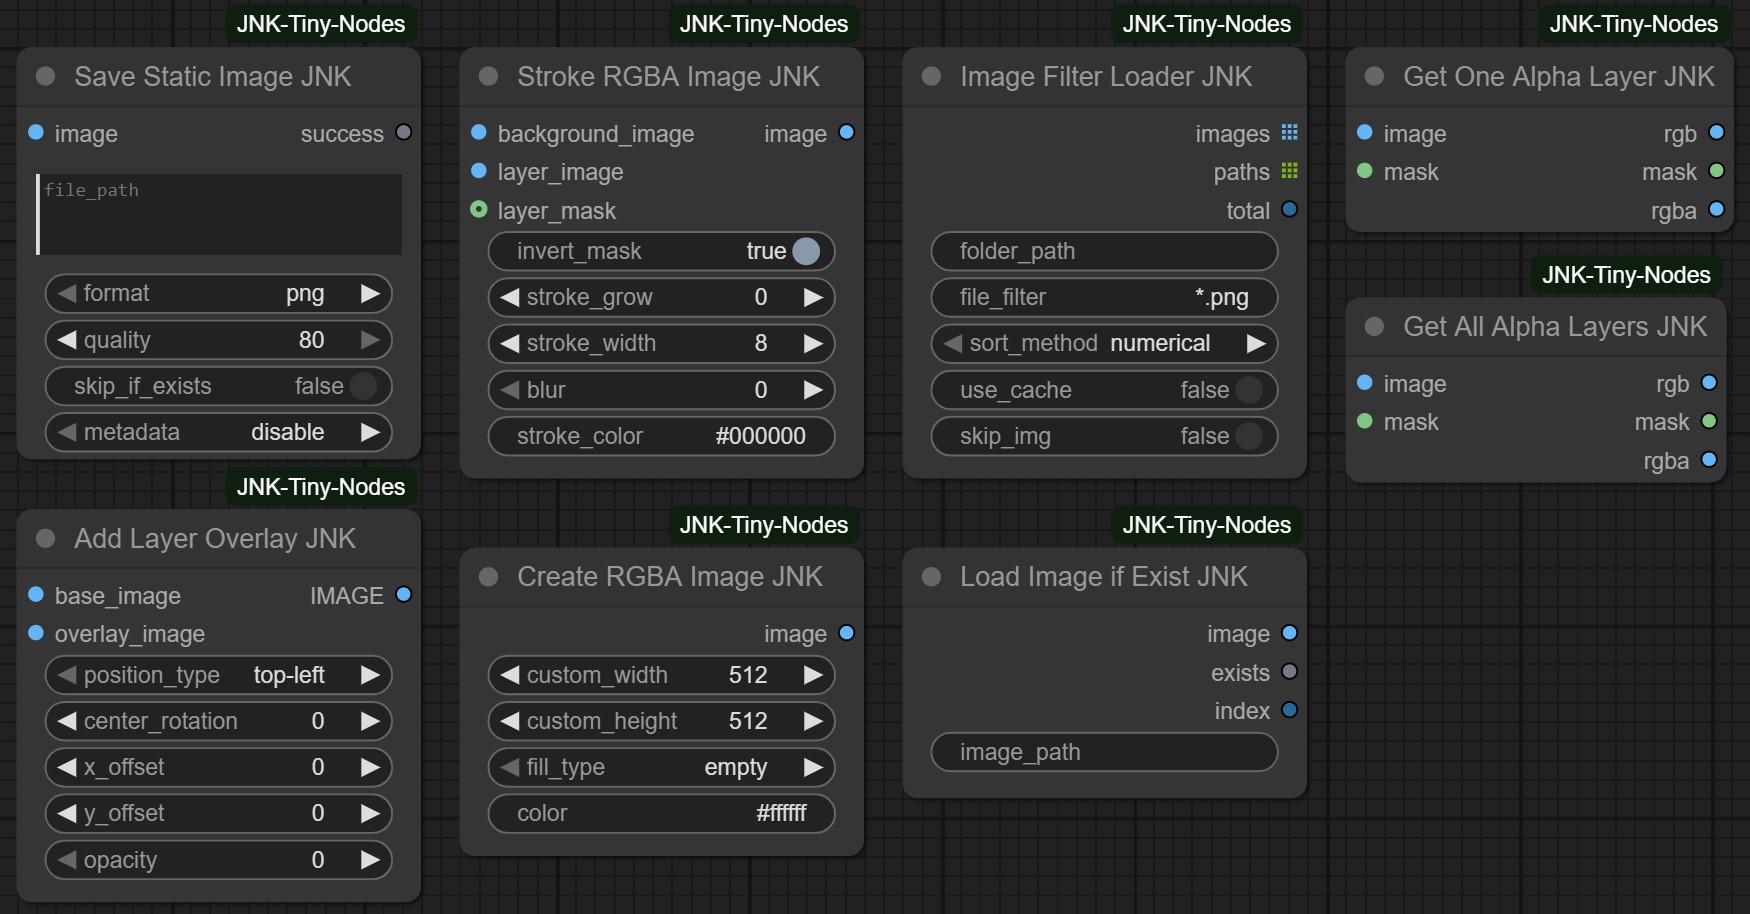
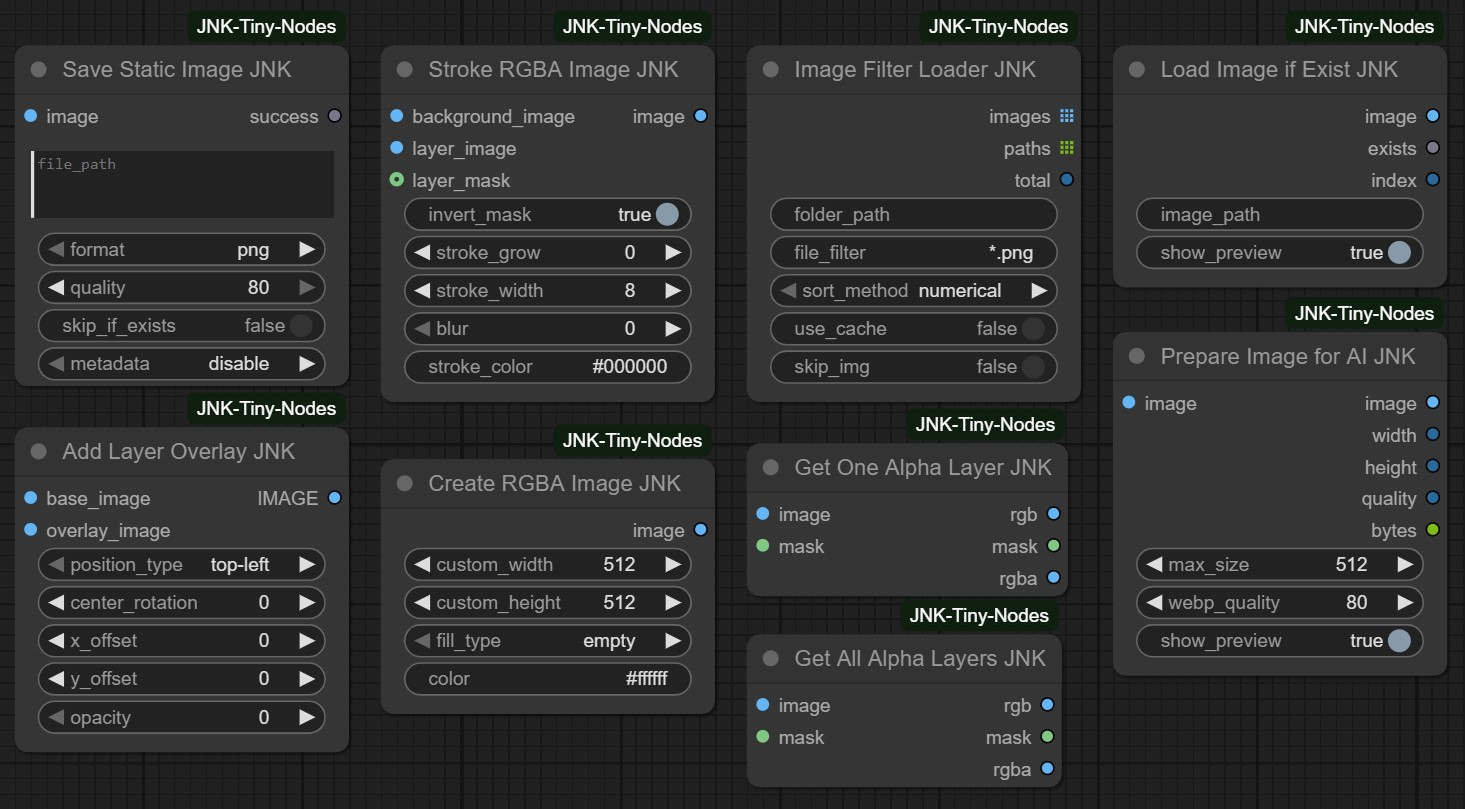
Add PrepareImageForAI_JNK node

diff --git a/nodes.py b/nodes.py
@@ -1,7 +1,6 @@
 # Standard library imports
 import os
 import re
-import io
 import uuid
 import json
 import shutil
@@ -24,6 +23,7 @@ import torch
 from google import genai
 from PIL import Image
 from PIL.PngImagePlugin import PngInfo
+from io import BytesIO
 
 # ComfyUI specific imports
 import folder_paths  # type: ignore[import]
@@ -31,7 +31,7 @@ import server  # type: ignore[import]
 from comfy.model_management import InterruptProcessingException  # type: ignore[import]
 
 # Local application imports
-from .funs import AnyType, expand_mask, image2mask, pil2tensor, play_sound, resize_preview, subtract_mask, tensor2pil
+from .funs import AnyType, expand_mask, image2mask, pil2tensor, play_sound, resize_preview, subtract_mask, tensor2pil, tensor_to_bytes
 
 
 any = AnyType("*")
@@ -212,68 +212,112 @@ class SaveStaticImage_JNK:
             return {"ui": {"images": []}, "result": (success,)}
 
 class LoadImageWithCheck_JNK:
-    def __init__(self):
-        self.preview_width = 600
-        
+    def __init__(self):self.preview_width = 600
     @classmethod
     def INPUT_TYPES(s):
         return {
             "required": {
                 "image_path": ("STRING", {"default": "", "multiline": False}),
+                "show_preview": ("BOOLEAN", {"default": True}),
             },
         }
-
     CATEGORY = "🔧 JNK"
     RETURN_TYPES = ("IMAGE", "BOOLEAN", "INT")
     RETURN_NAMES = ("image", "exists", "index")
     FUNCTION = "load_image"
     OUTPUT_NODE = True
 
-    def load_image(self, image_path):
+    def load_image(self, image_path, show_preview):
         try:
-            exists = False
-            index = 2
-            results = []
-            empty_image = torch.zeros((1, 64, 64, 3))
-            
+            exists = False;index = 2;results = [];empty_image = torch.zeros((1, 64, 64, 3))
             if image_path and os.path.exists(image_path):
-                exists = True
-                index = 1
+                exists = True;index = 1
                 try:
                     with Image.open(image_path) as img:
                         i = np.array(img).astype(np.float32) / 255.0
-                        img_preview = Image.fromarray(np.clip(i * 255.0, 0, 255).astype(np.uint8))
-                        
-                        # Resize preview
-                        aspect_ratio = img_preview.width / img_preview.height
-                        new_height = int(self.preview_width / aspect_ratio)
-                        img_preview = img_preview.resize((self.preview_width, new_height), Image.Resampling.LANCZOS)
-                        
-                        preview_path = os.path.join(folder_paths.get_temp_directory(), f"preview_{uuid.uuid4()}.png")
-                        img_preview.save(preview_path)
                         image = torch.from_numpy(i)[None,]
-                        results.append({"filename": os.path.basename(preview_path), "subfolder": "", "type": "temp"})
-                except Exception:
-                    print(f"---JNK---> LoadImageWithCheck_JNK ---> Error loading image: {image_path}")
-                    image = empty_image
-                    exists = False
-                    index = 2
+                        if show_preview:
+                            img_preview = Image.fromarray(np.clip(i * 255.0, 0, 255).astype(np.uint8))
+                            aspect_ratio = img_preview.width / img_preview.height
+                            new_height = int(self.preview_width / aspect_ratio)
+                            img_preview = img_preview.resize((self.preview_width, new_height), Image.Resampling.LANCZOS)
+                            preview_path = os.path.join(folder_paths.get_temp_directory(), f"preview_{uuid.uuid4()}.png")
+                            img_preview.save(preview_path)
+                            results.append({"filename": os.path.basename(preview_path), "subfolder": "", "type": "temp"})
+                except Exception:print(f"---JNK---> LoadImageWithCheck_JNK ---> Error loading image: {image_path}");image = empty_image;exists = False;index = 2
+            else:image = empty_image
+            if show_preview:
+                return {"ui": {"images": results}, "result": (image, exists, index)}
             else:
-                image = empty_image
-
-            return {"ui": {"images": results}, "result": (image, exists, index)}
+                return (image, exists, index)
         except Exception:
             print(f"---JNK---> LoadImageWithCheck_JNK ---> Error processing image: {image_path}")
             return (empty_image, False, 2)
+
+class PrepareImageForAI_JNK:
+    @classmethod
+    def INPUT_TYPES(cls):
+        return {
+                "required": {
+                    "image": ("IMAGE",),
+                    "max_size": ("INT", {"default": 512, "min": 64, "max": 4096, "step": 64}),
+                    "webp_quality": ("INT", {"default": 80, "min": 1, "max": 100, "step": 1}),
+                    "show_preview": ("BOOLEAN", {"default": True}),
+                },
+            }
+
+    CATEGORY = "🔧 JNK"
+    OUTPUT_NODE = True
+    RETURN_TYPES = ("IMAGE", "INT", "INT", "INT", "STRING")
+    RETURN_NAMES = ("image", "width", "height", "quality", "bytes")
+    FUNCTION = "doit"
+
+    def doit(self, image, max_size=512, webp_quality=80, show_preview=True):
+        print(f"---JNK---> LoadMinmizedImage ---> Started")
+        img = tensor2pil(image)
+        if img.mode in ('RGBA', 'LA'):
+            background = Image.new('RGB', img.size, (255, 255, 255))
+            if img.mode == 'RGBA':background.paste(img, mask=img.split()[-1])
+            else:background.paste(img, mask=img.split()[-1])
+            img = background
+        original_size = img.size
+        if max(original_size) > max_size:
+            ratio = max_size / max(original_size)
+            new_size = (int(original_size[0] * ratio), int(original_size[1] * ratio))
+            img = img.resize(new_size, Image.Resampling.LANCZOS)
+        webp_buffer = BytesIO()
+        img.save(webp_buffer, format='WEBP', quality=webp_quality, method=6)
+        webp_buffer.seek(0)
+        img = Image.open(webp_buffer)
+        res = pil2tensor(img.convert('RGB'))
+        width = img.size[0];height = img.size[1]
+        image_bytes = tensor_to_bytes(res, quality=webp_quality)
+        size_bytes = len(image_bytes)
+        if size_bytes < 1024:size_formatted = f"{size_bytes} B"
+        elif size_bytes < 1024 * 1024:size_formatted = f"{size_bytes / 1024:.1f} KB"
+        else:size_formatted = f"{size_bytes / (1024 * 1024):.1f} MB"
+        results = []
+        if show_preview:
+            preview_path = os.path.join(folder_paths.get_temp_directory(), f"preview_{uuid.uuid4()}.png")
+            preview_image = resize_preview(img, 256)
+            preview_image.save(preview_path)
+            results.append({"filename": os.path.basename(preview_path), "subfolder": "", "type": "temp"})
+        print(f"---JNK---> LoadMinmizedImage ---> Original: {original_size}, Final: {width}x{height}")
+        print(f"---JNK---> LoadMinmizedImage ---> Bytes: {size_bytes}, Size: {size_formatted}")
+        print(f"---JNK---> LoadMinmizedImage ---> Finished")
+        if show_preview:
+            return {"ui": {"images": results}, "result": (res, width, height, webp_quality, size_formatted)}
+        else:
+            return (res, width, height, webp_quality, size_formatted)
+    @classmethod
+    def IS_CHANGED(self, **kwargs):return float("nan")
 
 class ImageFilterLoader_JNK:
     _cached_images = None
     _cached_paths = None
     _cached_params = None
 
-    def __init__(self) -> None:
-        pass
-
+    def __init__(self) -> None:pass
     @classmethod
     def INPUT_TYPES(s) -> Dict[str, Dict[str, Any]]:
         return {
@@ -1262,15 +1306,6 @@ class AskGoogleGemini_JNK:
     FUNCTION = "ask_gemini"
     CATEGORY = "🔧 JNK"
 
-    def tensor_to_bytes(self, tensor):
-        if len(tensor.shape) == 4: tensor = tensor.squeeze(0)
-        tensor = tensor.detach().cpu().numpy()
-        if tensor.dtype != np.uint8: tensor = (tensor * 255).astype(np.uint8)
-        pil_image = Image.fromarray(tensor)
-        img_byte_arr = io.BytesIO()
-        pil_image.save(img_byte_arr, format='PNG')
-        return img_byte_arr.getvalue()
-
     def get_temp_file_path(self, model):
         temp_dir = os.path.join(os.path.dirname(__file__), "temp")
         if not os.path.exists(temp_dir):os.makedirs(temp_dir)
@@ -1302,7 +1337,7 @@ class AskGoogleGemini_JNK:
             contents = [prompt]
             if image is not None:
                 print(f"---JNK---> AskGoogleGemini ---> Image added")
-                image_bytes = self.tensor_to_bytes(image)
+                image_bytes = tensor_to_bytes(image)
                 image_part = genai.types.Part.from_bytes(data=image_bytes, mime_type='image/png')
                 contents.append(image_part)
             response = client.models.generate_content(model=model, contents=contents)

diff --git a/funs.py b/funs.py
@@ -3,17 +3,28 @@ import numpy as np
 import scipy.ndimage
 from PIL import Image, ImageFilter
 import time
+import hashlib
+import io
 import pygame  # type: ignore[import]
 
 
 class AnyType(str): __eq__ = lambda self, __value: True; __ne__ = lambda self, __value: False
 
-def tensor2pil(img: torch.Tensor) -> Image.Image: return Image.fromarray(np.clip(255. * img.cpu().numpy().squeeze(), 0, 255).astype(np.uint8))
-def pil2tensor(img: Image.Image) -> torch.Tensor: return torch.from_numpy(np.array(img).astype(np.float32) / 255.0).unsqueeze(0)
-
+def tensor2pil(image: torch.Tensor) -> Image.Image: return Image.fromarray(np.clip(255. * image.cpu().numpy().squeeze(), 0, 255).astype(np.uint8))
+def pil2tensor(image: Image.Image) -> torch.Tensor: return torch.from_numpy(np.array(image).astype(np.float32) / 255.0).unsqueeze(0)
+def pil2hex(image: torch.Tensor) -> str: return hashlib.sha256(np.array(tensor2pil(image)).astype(np.uint16).tobytes()).hexdigest()
+def pil2mask(image: Image.Image) -> torch.Tensor: inp = np.array(image.convert("L")).astype(np.float32) / 255.0; mask = torch.from_numpy(inp); return 1.0 - mask
 def mask_invert(mask:torch.Tensor) -> torch.Tensor: return 1 - mask
-
 def subtract_mask(masks_a:torch.Tensor, masks_b:torch.Tensor) -> torch.Tensor: return torch.clamp(masks_a - masks_b, 0, 255)
+def RGB2RGBA(image:Image, mask:Image) -> Image:(R, G, B) = image.convert('RGB').split(); return Image.merge('RGBA', (R, G, B, mask.convert('L')))
+def tensor_to_bytes(tensor, quality=80):
+    if len(tensor.shape) == 4: tensor = tensor.squeeze(0)
+    tensor = tensor.detach().cpu().numpy()
+    if tensor.dtype != np.uint8: tensor = (tensor * 255).astype(np.uint8)
+    pil_image = Image.fromarray(tensor)
+    img_byte_arr = io.BytesIO()
+    pil_image.save(img_byte_arr, format='WEBP', quality=quality, method=6)
+    return img_byte_arr.getvalue()
 
 def play_sound(sound_type='normal'):
     try:
@@ -94,14 +105,9 @@ def expand_mask(mask:torch.Tensor, grow:int, blur:int) -> torch.Tensor:
     ret_mask = torch.cat(out, dim=0)
     return ret_mask
 
-def RGB2RGBA(image:Image, mask:Image) -> Image:
-    (R, G, B) = image.convert('RGB').split()
-    return Image.merge('RGBA', (R, G, B, mask.convert('L')))
 
 def resize_preview(image_pil, target_width):
-    if image_pil.width <= target_width:
-        return image_pil
-        
+    if image_pil.width <= target_width:return image_pil
     aspect_ratio = image_pil.width / image_pil.height
     new_height = int(target_width / aspect_ratio)
     return image_pil.resize((target_width, new_height), Image.Resampling.LANCZOS)

diff --git a/__init__.py b/__init__.py
@@ -11,6 +11,7 @@ NODE_CLASS_MAPPINGS = {
     ## Image
     "Save Static Image JNK":SaveStaticImage_JNK,
     "Load Image if Exist JNK":LoadImageWithCheck_JNK,
+    "Prepare Image for AI JNK":PrepareImageForAI_JNK,
     "Image Filter Loader JNK":ImageFilterLoader_JNK,
     "Stroke RGBA Image JNK":StrokeImage_JNK,
     "Create RGBA Image JNK":AlphaImageNode_JNK,
@@ -51,6 +52,7 @@ NODE_DISPLAY_NAME_MAPPINGS = {
     ## Image
     "SaveStaticImage_JNK":"Save Static Image",
     "LoadImageWithCheck_JNK":"Load Image if Exist",
+    "PrepareImageForAI_JNK":"Prepare Image for AI",
     "ImageFilterLoader_JNK":"Image Filter Loader",
     "StrokeImage_JNK":"Stroke RGBA Image",
     "AlphaImageNode_JNK":"Create RGBA Image",
@@ -79,4 +81,5 @@ NODE_DISPLAY_NAME_MAPPINGS = {
     "AskGoogleGemini_JNK":"Ask Google Gemini",
 }
 
+WEB_DIRECTORY = "./web/js"
 __all__ = ["NODE_CLASS_MAPPINGS", "NODE_DISPLAY_NAME_MAPPINGS"]

diff --git a/README.md b/README.md
@@ -5,6 +5,10 @@ A collection of useful custom nodes for ComfyUI - image processing, text manipul
 
 ## 📦 Installation
 
+You can access it directly from the ComfyUI Manager. Search for "JNK," click "Install," and then restart.
+
+OR
+
 ### Method 1: Git Clone (Recommended)
 ```bash
 cd ComfyUI/custom_nodes/
@@ -27,6 +31,9 @@ pip install google-genai
 
 
 ## 🔄 Changelog
+
+### v1.1.1 (July 10, 2025)
+- Added "Prepare Image for AI" node for optimizing images before sending to AI models (token saving)
 
 ### v1.1.0 (July 8, 2025)
 - Added "Ask Google Gemini" node for text and image AI processing
@@ -55,6 +62,7 @@ pip install google-genai
 - **Save Static Image** - Save images with quality control, metadata, and an option to skip existing files. Allows saving images using filesystem paths.
 - **Load Image if Exist** - Load images with existence check, returning a boolean status. Loads image by filesystem path and returns boolean to check if image was loaded.
 - **Image Filter Loader** - Batch load images from folders with filtering + returns number of found images and their paths. Loads images from a folder whose names contain the filter keyword.
+- **Prepare Image for AI** - Optimize images (reduce image size) to save tokens when using with "Ask Google Gemini" node for computer vision tasks.
 - **Stroke RGBA Image** - Add customizable stroke effects to RGBA images or by mask. Preserves alpha channel after stroking.
 - **Create RGBA Image** - Generate transparent or colored RGBA image. Useful for compositing images from different layers.
 - **Add Layer Overlay** - Composite layers with positioning, rotation and opacity control.
